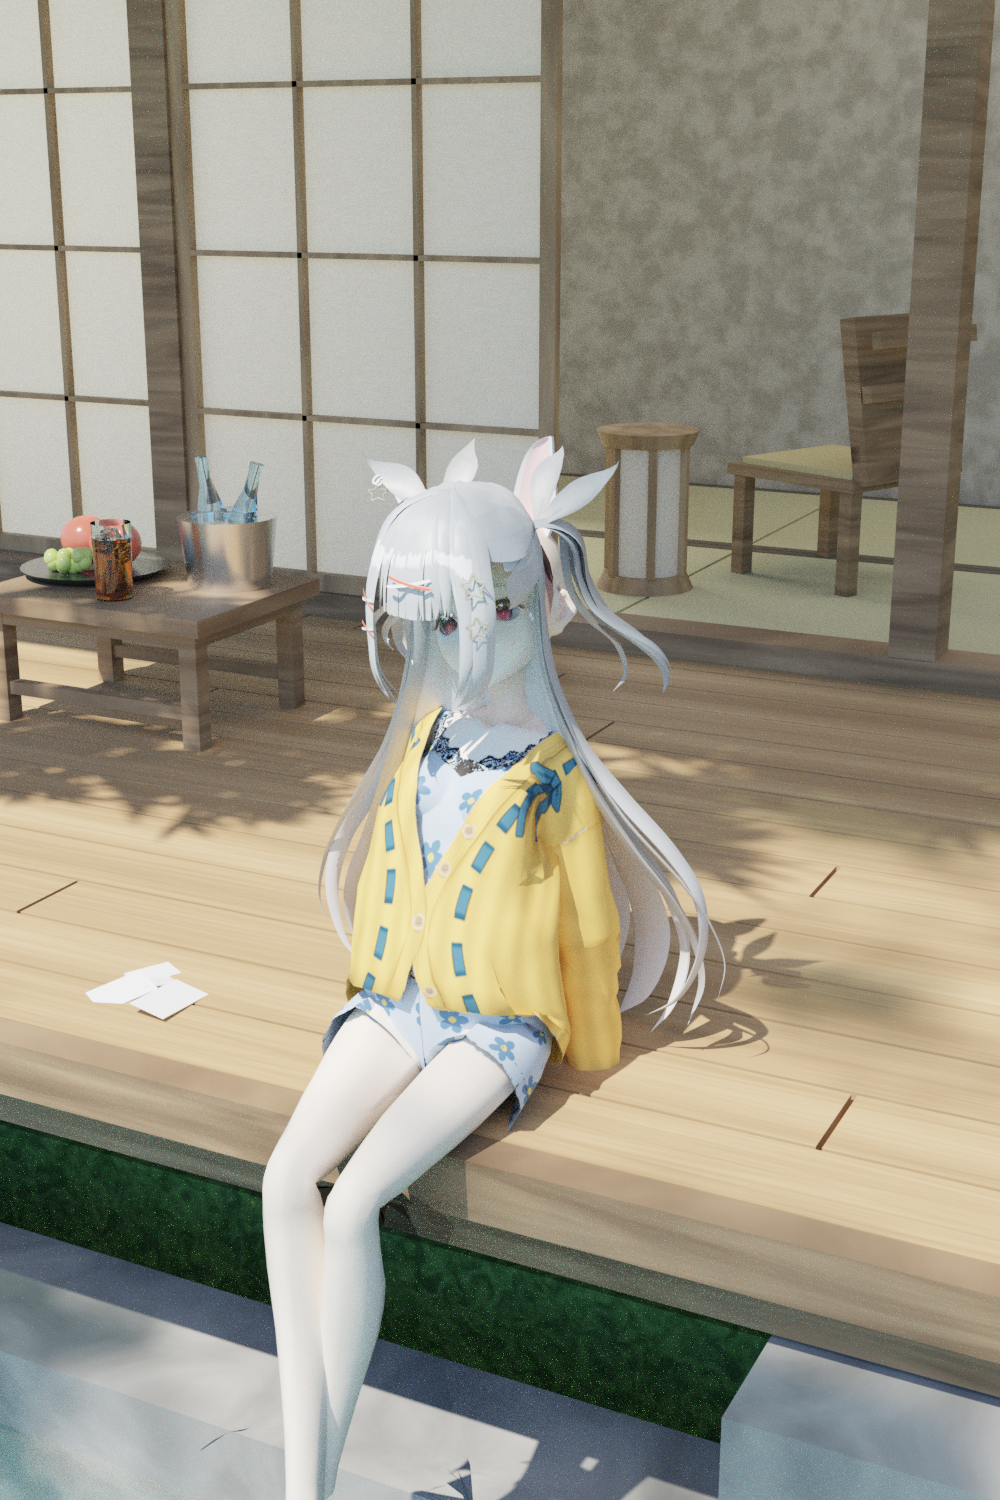
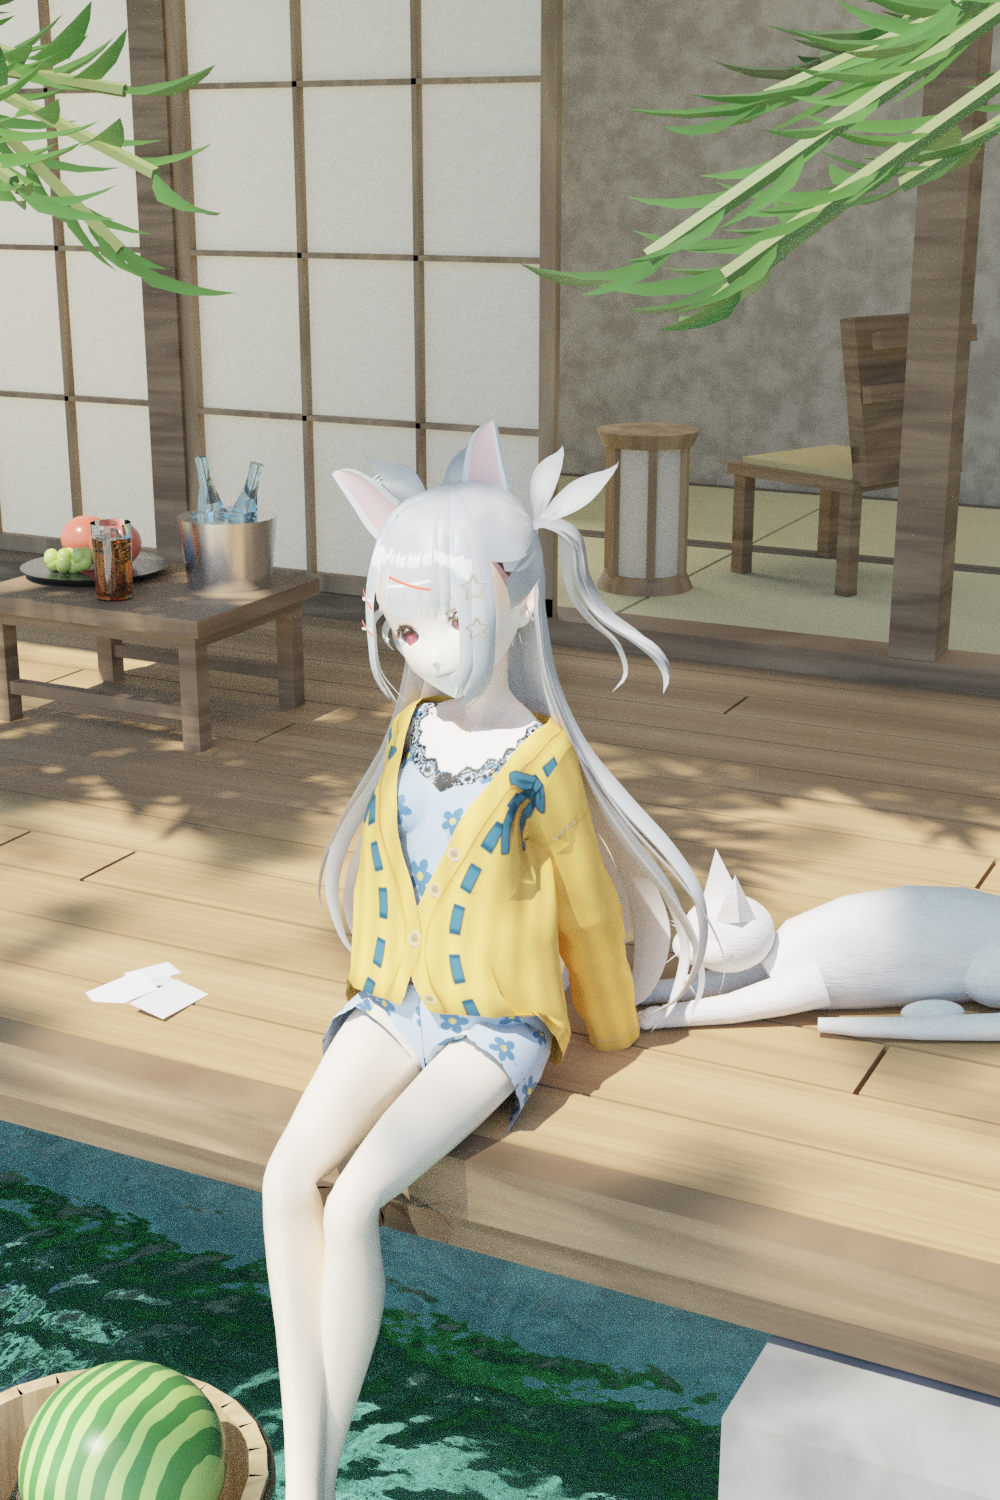
Render the finished summer engawa shot
Everything in frame is built by script and rendered in Cycles: the character
(a VRoid sample restyled silver, another sample's long hair grafted on, ears
added, the outfit recoloured for summer), the set (shoji house, tatami, the
boards, water, koi, the floating bucket, the side table, the cat, the bamboo
framing the corners), the pose, the light and the camera.

Claude-Session: https://claude.ai/code/session_01KdiKTGuNFyVJk3TLR4SJ8Q

diff --git a/CharacterPrototype/tools/blender_scene.py b/CharacterPrototype/tools/blender_scene.py
@@ -1125,7 +1125,7 @@ def build_bamboo():
     # corner of the hero frame, just in front of the eave fascia -- the dark
     # leafy intrusions the reference uses to close off the top of the picture.
     def arch(start, end, sag, r0, r1, n_twigs, leaf_len, tw_scale, seed_dir,
-             tgt=None):
+             tgt=None, t0=0.10):
         bm_culm, bm_leaf, bm_stem = (tgt if tgt is not None
                                      else (_culm_default, _leaf_default,
                                            _stem_default))
@@ -1142,7 +1142,7 @@ def build_bamboo():
         sd = Vector(seed_dir).normalized()
         n_twigs = int(n_twigs * 2.2)
         for i in range(n_twigs):
-            t = 0.10 + 0.90 * (i / max(1, n_twigs - 1))
+            t = t0 + (1.0 - t0) * (i / max(1, n_twigs - 1))
             base = ((1 - t) ** 2 * a + 2 * (1 - t) * t * ctrl + t ** 2 * b)
             base = base + Vector((rng.uniform(-0.10, 0.10),
                                   rng.uniform(-0.10, 0.10),
@@ -1179,15 +1179,15 @@ def build_bamboo():
     culm((1.98, -1.46, -1.9), (1.88, -1.32, 2.55), 0.030, 0.021, nodes=5,
          tgt=bm_fculm)
     arch((1.86, -1.30, 2.28), (0.74, -1.24, 1.22), 0.09, 0.022, 0.011,
-         16, 0.100, 0.34, (-1.0, 0.05, -0.25), tgt=FG)
+         16, 0.100, 0.34, (-1.0, 0.05, -0.25), tgt=FG, t0=0.56)
     arch((1.88, -1.36, 1.84), (1.02, -1.30, 1.08), 0.05, 0.019, 0.010,
-         11, 0.092, 0.28, (-1.0, 0.05, -0.30), tgt=FG)
+         11, 0.092, 0.28, (-1.0, 0.05, -0.30), tgt=FG, t0=0.58)
     culm((-1.48, -1.62, -1.9), (-1.34, -1.48, 2.35), 0.028, 0.020, nodes=5,
          tgt=bm_fculm)
     arch((-1.32, -1.46, 2.08), (-0.36, -1.28, 1.24), 0.08, 0.020, 0.010,
-         15, 0.098, 0.32, (1.0, 0.05, -0.25), tgt=FG)
+         15, 0.098, 0.32, (1.0, 0.05, -0.25), tgt=FG, t0=0.56)
     arch((-1.34, -1.52, 1.70), (-0.62, -1.36, 1.06), 0.05, 0.018, 0.010,
-         10, 0.090, 0.26, (1.0, 0.05, -0.30), tgt=FG)
+         10, 0.090, 0.26, (1.0, 0.05, -0.30), tgt=FG, t0=0.58)
 
     for (bx, by, z0, z1, sgn) in [(-2.36, -1.46, 0.45, 3.90, 1.0),
                                   (2.92, -1.74, 0.40, 3.80, -1.0),
@@ -1380,7 +1380,7 @@ def build_koi():
     bm_pale = bmesh.new()
     for (x, y, hd, ln, z) in [(-1.05, -1.28, 18, 0.44, -0.19),
                               (0.95, -1.80, 162, 0.40, -0.27),
-                              (-0.80, -0.70, 6, 0.36, -0.045)]:
+                              (-0.96, -0.30, 3, 0.46, -0.130)]:
         _koi(bm_a, bm_fin, (x, y, 0), hd, ln, WATER_LEVEL + z)
     _koi(bm_pale, bm_fin, (-0.30, -1.78, 0), 74, 0.38, WATER_LEVEL - 0.30)
     koi = obj_from_bmesh("Engawa_Koi", bm_a, smooth=True)
@@ -2293,8 +2293,8 @@ def build_lighting(dappled=True):
     # shipping camera can see, and it sits in the deck's own shadow. A low,
     # warm bounce standing in for light kicking off the bright boards keeps
     # it (and the koi in it) from going to black.
-    area("Engawa_Underdeck_Bounce", (-0.9, -1.9, -0.30), (-0.7, -0.55, -0.75),
-         34.0, 2.4, (1.0, 0.90, 0.76), size_y=0.9)
+    area("Engawa_Underdeck_Bounce", (-1.0, -1.85, -0.32), (-0.95, -0.35, -0.92),
+         95.0, 2.2, (1.0, 0.91, 0.78), size_y=0.8)
 
     # Gather the rig under its own empty, itself a child of Scene_Engawa when
     # that exists: the whole set still moves and hides as one, but a
